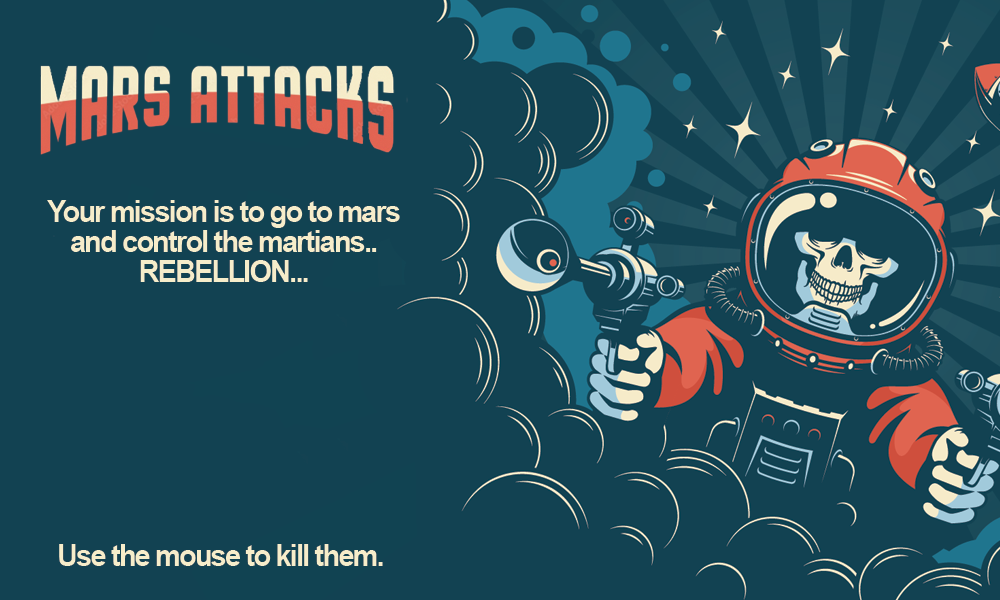
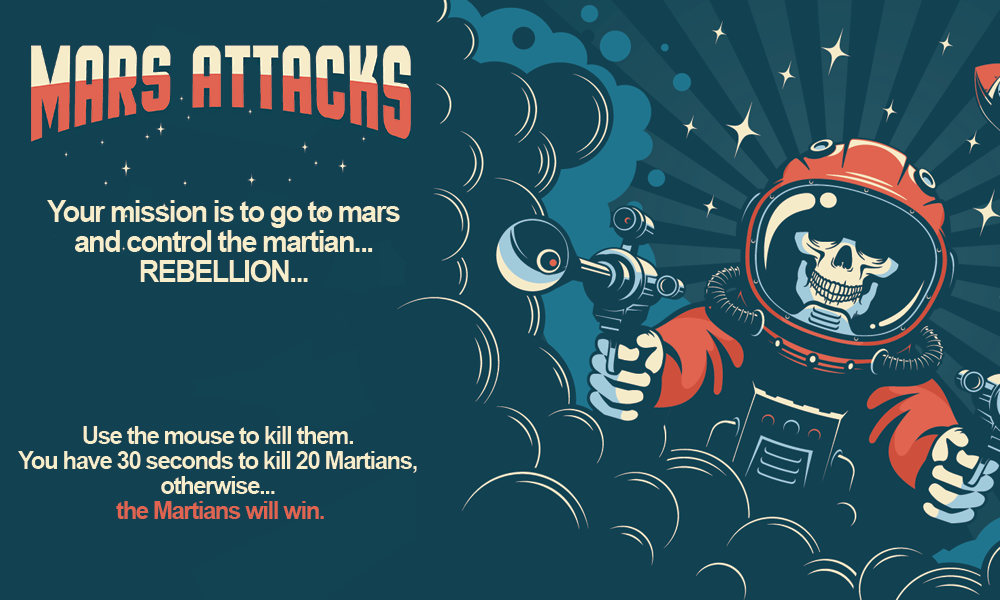
'Readme'

diff --git a/css/style.css b/css/style.css
@@ -8,8 +8,7 @@ body{
 
 /* Basic styles, change according to your style */
 
-#start-page,
-#lose-page {
+#start-page{
   height: 600px;
   width: 1000px;
   display: flex;
@@ -22,10 +21,21 @@ body{
   background-image: url('/img/BGgame.png');
 }
 #lose-page {
+  height: 600px;
+  width: 1000px;
+  display: flex;
+  justify-content:end;
+  align-items: center;
+  flex-direction: column;
+  text-align: center;
+  margin: 0 auto;  
+  margin-top: 50px;
   display: none;
   background-image: url('/img/lose-page.png');
 }
-
+#lose-page{
+  display: none;
+}
 #win-page{
   height: 600px;
   width: 1000px;
@@ -43,7 +53,7 @@ body{
   color: red;
 }
 
-button {
+button, #start {
   margin-top: 200px;
   margin-left: 150px;
   background: #e06450;
@@ -56,15 +66,18 @@ button {
   position: relative;
   border-radius: 20px;
 }
+button,
+#try-again{
+  margin: 0 auto;  
+  margin-bottom: 100px;
+}
 
 canvas {
-
   display: block;
   margin: 0 auto;
   margin-top: 30px;
   margin-bottom: 50px;
   background-image: url('/img/backgroundgame.png');
-
 }
 cursor { 
   background-image: url('img/mirilla.png');

diff --git a/js/scripts.js b/js/scripts.js
@@ -3,6 +3,8 @@ window.onload = function () {
   const ctx = canvas.getContext('2d');
   const startPage = document.getElementById('start-page');
   const startButton = document.getElementById('start');
+  const losePage = document.getElementById('lose-page');
+  const tryAgainButton = document.getElementById('try-again');
   
   
   startButton.onclick = function () {
@@ -10,6 +12,13 @@ window.onload = function () {
     canvas.classList.remove('hidden');
     const game = new Game(ctx);
     game.start();
-    this.winPageSound.play();
+    
+  }
+
+  tryAgainButton.onclick = function() {
+    startPage.style = "display: none";
+    canvas.classList.remove('hidden');
+    const game = new Game(ctx);
+    game.start();
   }
 }

diff --git a/js/player.js b/js/player.js
@@ -3,22 +3,4 @@ class Player {
         this.x = x;
         this.y = y;       
     }
-
-//    _getMouse(){
-//     function getMousePosition(canvas, e){
-//         return {
-//             x: e.clientX,
-//             y: e.clientY 
-//         }
-//     }
-//     let canvas = document.getElementById('canvas');
-//     const ctx = canvas.getContext('2d');
-//     ctx.canvas.addEventListener('mousemove', function(e){
-//         let mousePosition = getMousePosition(canvas, e)
-//         this.x = mousePosition.x; 
-//         this.y = mousePosition.y;
-//     //let message = 'Mouse position: ' + mousePosition.x +',' + mousePosition.y;
-//      // console.log(message)
-//     })
-//    }
 }

diff --git a/js/game.js b/js/game.js
@@ -55,9 +55,9 @@ _assignClickMouse(){
 
 }
   _writeScore(){
-    this.ctx.fillStyle = 'black';
-    this.ctx.font = '20px Verdana';
-    this.ctx.fillText(`🚀🚀🚀 Score: ${this.points}`, 700, 30)
+    this.ctx.fillStyle = 'white';
+    this.ctx.font = '30px san-serif';
+    this.ctx.fillText(`Score: ${this.points}`, 850, 40)
   }
 
   _timerGame(){
@@ -67,8 +67,8 @@ _assignClickMouse(){
   }
   _writeTimer(){
     this.ctx.fillStyle = 'black';
-    this.ctx.font = '20px Verdana'
-    this.ctx.fillText(`⌛ Timer: ${this.timer}`, 500, 30)
+    this.ctx.font = '30px san-serif'
+    this.ctx.fillText(`Timer: ${this.timer}`, 700, 40)
   }
 
   _gameOver(){

diff --git a/js/asset.js b/js/asset.js
@@ -1,13 +1,5 @@
 // // // enemies
 
-// Background
-const stars = new Image();
-stars.src = '../img/fondeestrellado.png'
-
-const  mars = new Image();
-mars.src = '../img/bg1.png'
-
-// Good
 
 const hero1 = new Image();
 hero1.src = '../img/guillen.png'
@@ -15,7 +7,6 @@ hero1.src = '../img/guillen.png'
 const hero2 = new Image();
 hero2.src = '../img/martians1.png'
 
-// Bad
 
 const enemy3 = new Image();
 enemy3.src = '../img/martians1.png'

diff --git a/index.html b/index.html
@@ -15,8 +15,9 @@
     </main>
   </div>
 
-    <div id="lose-page">
+    <div id="lose-page" width="1000" height="600" class="hidden">
     <main>
+      <button id="try-again">Try again</button>
     </main>
     </div>
 

diff --git a/README.md b/README.md
@@ -1,35 +1,36 @@
-# Kill the...
+# Mars Attack
 
 <!-- When you finish, add a nice screenshot of your game -->
 <!--[<img src="./img/page.png">]()-->
 
 ## Description
 
-The game consists of a player who must eliminate enemies that appear and disappear.
+The game consists of a player (the mouse) who must eliminate enemies that appear and disappear.
 
-There are two types of enemies, a basic enemy that just appears and disappears and an enemy that throws bombs causing the player to lose lives.
-
-The objective of the game is to eliminate all the enemies, especially the ones that throw bombs.
-
+The objective of the game is to eliminate 20 enemies in 30 seconds, otherwise the game is lost.
 
 ## User stories MVP
 
 Minimum user stories:
 
-- User can hit the start button and see the game
-- User can move right, left, up and down The user can kill his enemies
-- The first levels will be easy, but as you progress the speed will  increase, as well as the number of enemies
-- User can see the scoring board on screen
-- User can see a game over page when they lose
+- User can hit the start button and see the game.
+- The player can move all over the canvas.
+- The user can kill her enemies by clicking on them.
+- The player can win or lose.
+- User can see the scoring board on screen.
+- User can see a game over page when losing or winning
 
 ## User stories Backlog
 
-- User can ...
 
 ## File structure
 
-- <code>game.js</code>: contains all the elements for the game to work. Methods: start(), \_update()
+- <code>game.js</code>: contains all the elements for the game to work. Methods: start(), \_update(), \ this.checkCollison(), \_assignClickMouse(), \_timerGame(), \_generateEnemies(); 
 - <code>scripts.js</code>: contains all the DOM manipulation code to start the game
+- <code>asset.js</code>: contains all images and sounds
+- <code>enemies.js</code>: contains the intervals to appear and disappear of the enemies
+- <code>player.js</code>: Contains the x and y coordinates of the player
+- <code>game.js</code>: Contains all the features of the game
 
 ## Useful links
 
